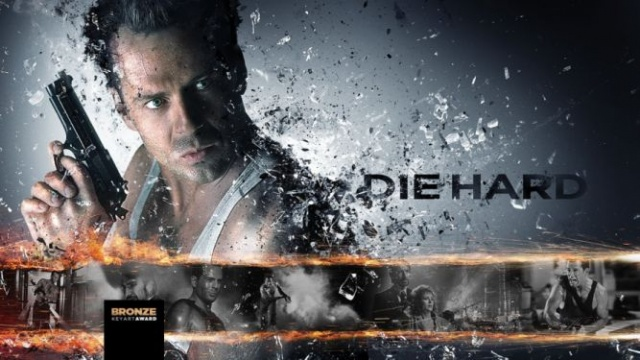
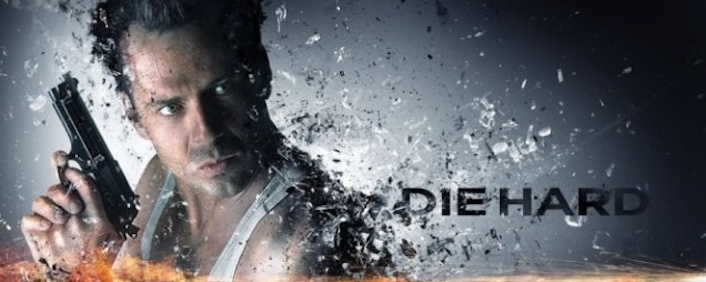
startpage update/ scss changes

diff --git a/www/templates/StartPage.html b/www/templates/StartPage.html
@@ -1,7 +1,7 @@
 <section class="startpage">
   <div class="container-fluid">
-    <div class="row">
-      <div class="col-sm col-md mb-2">
+    <div class="row mt-2">
+      <div class="col-12 col-md-12">
         <div id="movieCarousel" class="carousel slide" data-ride="carousel">
           <ol class="carousel-indicators">
             <li data-target="#movieCarousel" data-slide-to="0" class="active"></li>
@@ -10,26 +10,28 @@
           </ol>
           <div class="carousel-inner">
             <div class="carousel-item active">
-              <img class="d-block w-100" src="images/diehardwallpaper1.png" alt="First slide">
+              <img class="d-block w-100 carousel-img" src="images/diehard-wallpaper4.jpg" alt="First slide">
               <div class="carousel-caption d-none d-md-block">
-                <h2>Die Hard Special</h2>
-                <p class="lead">tre visningar om dagen<a href="/book-show" class=" btn btn-warning">Biljetter</a>
+                <h3>Die Hard Special</h3>
+                <p class="lead">Tre visningar om dagen<br>
+                  <a href="/book-show" class="btn btn-lg btn-outline-warning">Boka din biljett idag</a>
                 </p>
               </div>
             </div>
             <div class="carousel-item">
-              <img class="d-block w-100" src="images/diehardwallpaper2.png" alt="Second slide">
+              <img class="d-block w-100 carousel-img" src="images/diehard-wallpaper5.jpg" alt="Second slide">
               <div class="carousel-caption d-none d-md-block">
-                <h2>Die Hard or Die Harder</h2>
-                <p class="lead">fullblown testostorne <br><a href="/book-show"
-                    class=" btn btn-warning btn-rounded">Biljetter</a></p>
+                <h3>Die Hard or Die Harder</h3>
+                <p class="lead">Fullblown testostorne <br><a href="/book-show"
+                    class="btn btn-lg btn-outline-warning">Boka din biljett idag</a></p>
               </div>
             </div>
             <div class="carousel-item">
-              <img class="d-block w-100" src="images/diehardwallpaper3.png" alt="Third slide">
+              <img class="d-block w-100 carousel-img" src="images/diehard-wallpaper6.jpg" alt="Third slide">
               <div class="carousel-caption d-none d-md-block">
-                <h2>Or Die Even Harder Six point O</h2>
-                <p class="lead"><a href="/book-show" class=" btn btn-warning btn-rounded">Biljetter</a></p>
+                <h3>Hela pentalogin</h3>
+                <p class="lead"><a href="/book-show" class="btn btn-lg btn-outline-warning">Boka din biljett idag</a>
+                </p>
               </div>
             </div>
             <a class="carousel-control-prev" href="#movieCarousel" role="button" data-slide="prev">
@@ -45,25 +47,26 @@
       </div>
     </div>
   </div>
-  <div class="demaracater p-4">
-    <img class="d-block w-100" src="images/DieHard6.0.png" alt="Fourth slide">
-  </div>
+  <!--End of carousel-->
+
+  <!--movie-cards-->
   <div class="container-fluid">
-    <div class="moviescard m-2">
-      <div class="row">
-        <div class="col-9">
-          <div class="card-deck">
-            ${this.moviesHtml}
-          </div>
+    <div class="moviescard m-2 p-2">
+      <div class="col-9 col-md-9 d-flex">
+        <div class="card-deck ml-1">
+          ${this.moviesHtml}
         </div>
-        <div class="col-sm-3 col-md-3">
-          <div class="aside">
-            <h2 class="text-center">Kommande visningar</h2>
-            ${this.upcomingShowsHTML}
-          </div>
+      </div>
+      <!--Aside portion-->
+      <div class="col-3 col-md-3">
+        <div class="aside mx-auto" style="flex-grow: 1">
+          <h4 class="text-center text-light">Kommande visningar</h4>
+          ${this.upcomingShowsHTML}
         </div>
       </div>
     </div>
   </div>
+
+
 
 </section>

diff --git a/scss/_startpage.scss b/scss/_startpage.scss
@@ -2,85 +2,104 @@
     box-sizing: border-box;
 }
 
-.startPage, body{
-    width: 100%;
-    font-weight: 200;
-}
-#movieCarousel{
-    margin: 0 auto;
-    border: 2px solid #f7aa00;
-}
-
-img-thumbnail{
+.startpage body{
     width: 100%;
     height: auto;
-}
-// card deck
-.moviescard{
-    display: flex;
-    flex-direction: row;
-    flex-wrap: wrap;
-    justify-content: space-around;
-    font-size: 15px;
-}
-.card{
-   margin-left: 5px !important;
-   margin-right: 5px !important;
-}
-
-
-.card-title{
-    font-size: 15px;
+    margin: auto 0;
     font-weight: 200;
-    margin: 0;
-    padding: 0;
-}  
-
-  .startbtn{
-    display: inline-flex;
-    font-size: 15px;
-    border-radius: 40px;
-    background: transparent;
-    padding: 5px;
-  }
- .startbtn:hover{
-     color: #fff;
-     background: #f7aa00;
- } 
-
-
-.carousel-caption{  
-    background-color: rgba(14, 13, 13, 0.927);
-    opacity: 0.6;
-    
-
- h2, p.lead{
-    font-weight: 200;
-    font-size: 40px;
-}
- p.lead{
-     font-size: 30px;
-
- }
-}
-.demaracater{
-    background-color:lightgray;
-    padding: 10px;
-}
-
-.aside{
-    border: 1px solid #f7aa00;
-    li{
-list-style-type: none;
-    }
-    h2{
+       h2, h3{
         font-weight: 200;
     }
 }
+#movieCarousel{
+    margin: 0 auto;
+     .carousel-img{
+        max-height: 400px !important;
+}
+}
+.carousel-caption{  
+    //background-color: rgba(58, 55, 55, 0.927);
+   // opacity: 0.8;
+  
+// Carousel-btn
+.btn-lg{
+    font-size: 20px;
+    font-weight: 200;
+    margin: 5px;
+    border: 2px solid;
+    text-shadow: 2px 2px #c0beb8
 
-@media only screen and (min-width: 600px) {
- .moviescard{
-     width:100%;
-     font: 14px;
- }
+}
+h3, p.lead{
+    font-size: 50px;
+    color: #fff;
+    font-weight: 400;
+    
+}
+p.lead{
+    font-size: 25px;
+}
+}
+// card deck = moviescard
+.moviescard{
+    width: 100%;
+    display: flex;
+    //flex-direction: row;
+    flex-wrap: wrap;
+    
+}
+.card{
+   width: 30%;
+   margin-left: 5px !important;
+   margin-right: 5px !important;
+   margin-top: 5px;
+   .card-body{
+        //padding: 0;
+        .card-text{
+            font-weight: 200;
+            padding: 5px;
+            //text-align: center;
+        }
+   }
+}
+
+.card-title{
+    font-size: 16px;
+    font-weight: 200;
+} 
+
+ 
+//card buttons
+a.btn{
+    font-size: 15px;
+    margin: 0 auto;
+&:hover{
+     color: #fff;
+     background: #fcb211;
+     transition: all 0.2s ease 0s;
+ } 
+}
+
+.col-3{
+    border: 1px solid #fff;
+    width: calc(30% - 5px);
+    padding-left: 0;
+    padding-right: 0;
+    li{
+         list-style-type: none;
+         color: #fff;     
+    }
+}
+
+
+@media only screen and (sm) {
+ .card{
+     display: block;   
+ }  
+.aside li{
+     font-size: 14px;
+     display: flex;
+     
+
+}
 }

diff --git a/www/js/components/StartPage.js b/www/js/components/StartPage.js
@@ -1,11 +1,10 @@
 
 class StartPage extends Component {
 
-  constructor(auditorium, movie) {
+  constructor() {
     super();
     this.addRoute('/', 'Startsida');
     this.movies = [];
-    this.shows = [];
     this.moviesHtml = 'loading';
     this.getMovies();
     this.upcomingShows();
@@ -20,16 +19,17 @@ class StartPage extends Component {
   createMoviesHtml() {
     let html = '';
     for (let movie of this.movies) {
-      html += `
+      html += `<div class="row no-gutters">
       <div class="card">
-       <img class= "card-img-top img-thumbnail" src="images/${movie.images[0]}" alt="movie-posters">
-      <div class="card-body">
+       <img class="img-thumbnail img-fluid" src="images/${movie.images[0]}" alt="movie-posters">
+       <div class="card-body">
         <h5 class="card-title">${movie.title}</h5><br>
         <p class="card-text">${movie.genre}</p>
-        <p> ${movie.productionYear}<br> ${movie.director}</p>
-        <a href="/mitt-konto" class="btn btn-warning startbtn" role="button">Konto</a>
-        <a href="/movies-schedule-page" class="btn btn-warning startbtn" role="button">Visningar</a>
+        <p class="card-text">${movie.productionYear} <br> ${movie.director}</p>
+        <a href="/mitt-konto" class="btn btn-outline-warning text-dark d-inline" role="button">Konto</a>
+        <a href="/movies-schedule-page" class="btn btn-outline-warning text-dark d-inline" role="button">Visningar</a>
       </div> 
+      </div>
       </div>
       `
     }
@@ -39,21 +39,16 @@ class StartPage extends Component {
   }
 
   async upcomingShows() {
-    let id = this.id;
-    let movie = this.movie;
-    let auditorium = this.auditorium;
-    // What is this supposed to do? This is not a valid query, check backend.
-    // this.shows = await Show.find(id, movie, auditorium);
     this.shows = await Show.find();
     this.showUpcomingShowsHTML();
   }
 
   showUpcomingShowsHTML() {
-    const shows = this.shows.slice(0, 7);
+    const shows = this.shows.slice(0, 10);
     let html = '';
     for (let show of shows) {
-      html += `<ul> Datum
-      <li> ${show.date} kl.${show.time}<br>${show.movie.title} ${show.auditorium.name}</li >
+      html += `<ul class="text-light">Datum
+      <li>${show.date} kl. ${show.time}<br> ${show.movie.title} ${show.auditorium.name}</li>
      </ul>`
     }
     this.upcomingShowsHTML = html;
